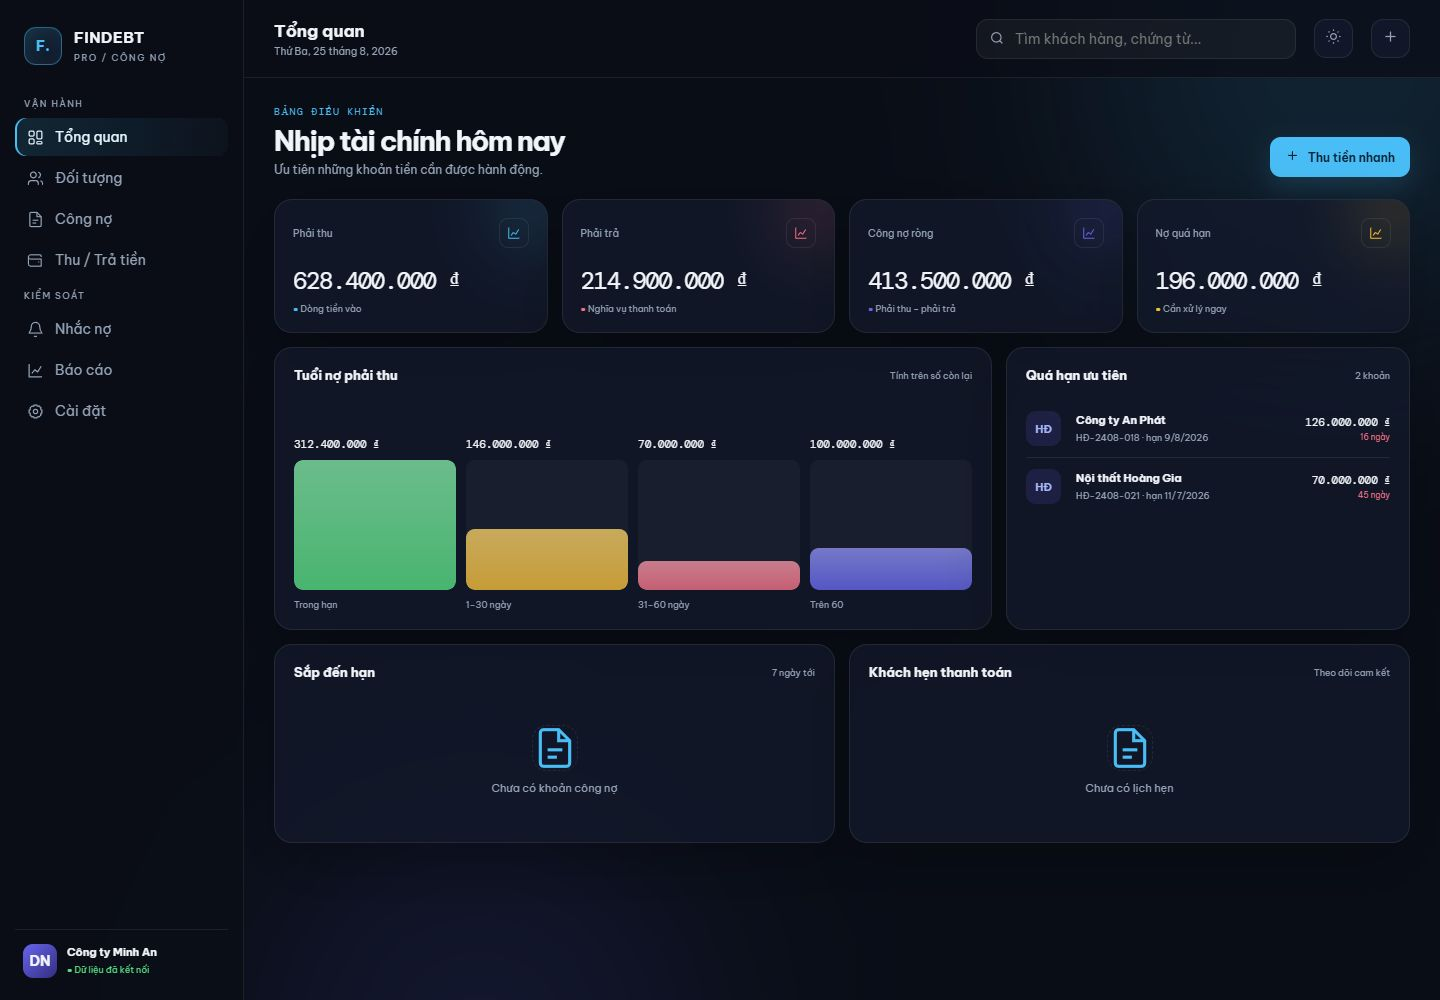
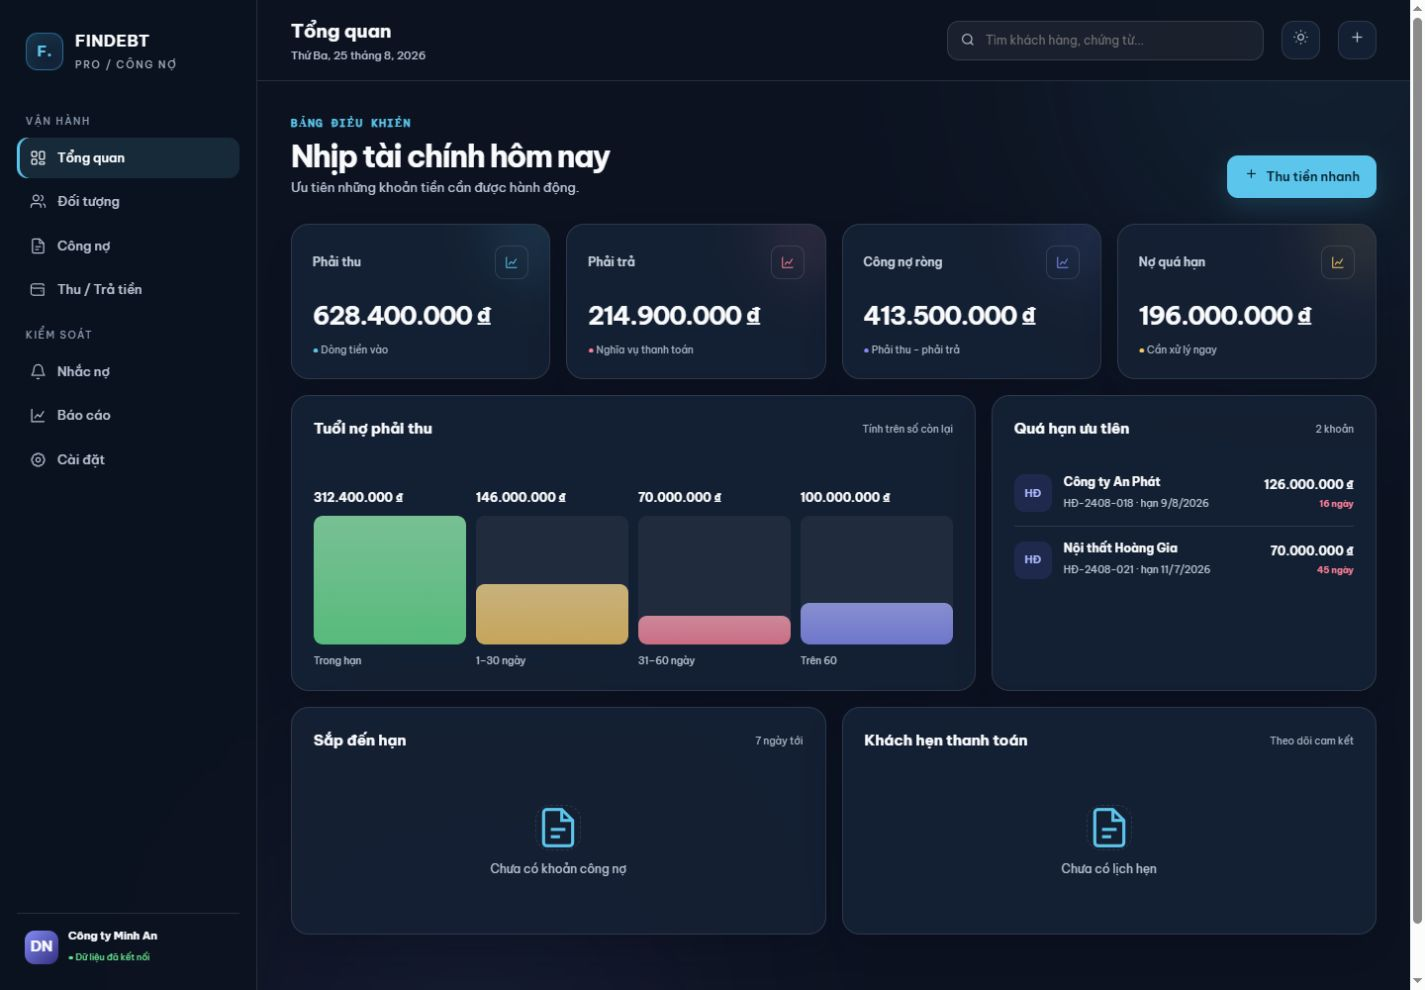
style: improve dashboard readability and contrast

diff --git a/web/Index.html b/web/Index.html
@@ -3,7 +3,9 @@
 <head>
   <base target="_top">
   <meta charset="utf-8">
+  <meta name="description" content="FINDEBT PRO — quản trị công nợ phải thu, phải trả cho doanh nghiệp Việt Nam.">
   <meta name="color-scheme" content="dark light">
+  <title>FINDEBT PRO</title>
   <link rel="preconnect" href="https://fonts.googleapis.com">
   <link rel="preconnect" href="https://fonts.gstatic.com" crossorigin>
   <link href="https://fonts.googleapis.com/css2?family=Be+Vietnam+Pro:wght@400;500;600;700;800&family=DM+Mono:wght@400;500&display=swap" rel="stylesheet">
@@ -18,10 +20,27 @@
     .filterbar{display:flex;gap:9px;margin-bottom:14px}.field-inline{border:1px solid var(--line);background:var(--panel);color:var(--text);border-radius:10px;padding:9px 12px;font-size:11px;outline:0}.filterbar input{min-width:240px}.modal-backdrop{position:fixed;inset:0;background:rgba(2,6,15,.72);backdrop-filter:blur(8px);z-index:20;display:none;place-items:center;padding:18px}.modal-backdrop.open{display:grid}.modal{width:min(620px,100%);max-height:min(780px,92vh);overflow:auto;background:var(--panel-solid);border:1px solid var(--line);border-radius:22px;box-shadow:0 30px 90px rgba(0,0,0,.45);padding:22px;animation:pop .22s ease}@keyframes pop{from{opacity:0;transform:scale(.97)}}.modal-head{display:flex;justify-content:space-between;align-items:start;margin-bottom:20px}.modal h3{margin:0;font-size:18px}.modal-head p{margin:5px 0 0;color:var(--muted);font-size:10px}.form-grid{display:grid;grid-template-columns:1fr 1fr;gap:13px}.field{display:grid;gap:6px}.field.full{grid-column:1/-1}.field label{font-size:9px;color:var(--muted);font-weight:600}.field input,.field select,.field textarea{width:100%;border:1px solid var(--line);background:rgba(255,255,255,.035);color:var(--text);border-radius:10px;padding:11px 12px;outline:none}.field input:focus,.field select:focus,.field textarea:focus{border-color:rgba(56,189,248,.5);box-shadow:0 0 0 3px rgba(56,189,248,.08)}.field textarea{min-height:76px;resize:vertical}.modal-foot{display:flex;justify-content:flex-end;gap:8px;margin-top:20px}.checkbox{display:flex;align-items:center;gap:8px;font-size:10px;color:var(--muted)}.toast-stack{position:fixed;right:20px;bottom:20px;z-index:30;display:grid;gap:8px}.toast{background:var(--panel-solid);border:1px solid var(--line);border-left:3px solid var(--green);border-radius:11px;padding:12px 15px;box-shadow:var(--shadow);min-width:260px;font-size:11px;animation:toast .3s ease}.toast.error{border-left-color:var(--red)}@keyframes toast{from{opacity:0;transform:translateX(20px)}}.loading{position:fixed;inset:0;background:var(--bg);z-index:99;display:grid;place-items:center}.loader-mark{width:56px;height:56px;border:1px solid rgba(56,189,248,.3);border-radius:18px;display:grid;place-items:center;color:var(--cyan);font-weight:800;animation:pulse 1.4s infinite}@keyframes pulse{50%{box-shadow:0 0 40px rgba(56,189,248,.22);transform:scale(1.04)}}.setup{max-width:520px;text-align:center}.setup h1{font-size:30px;letter-spacing:-.04em;margin:18px 0 8px}.setup p{color:var(--muted);line-height:1.7}.setup input{margin:16px 0;width:100%;padding:13px;border-radius:12px;border:1px solid var(--line);background:var(--panel);color:var(--text)}.bottom-nav{display:none}
     @media(max-width:1050px){.shell{grid-template-columns:78px minmax(0,1fr)}.brand-copy,.nav span,.nav-group,.company-mini>div:last-child{display:none}.brand{justify-content:center;padding-inline:0}.nav button{justify-content:center}.sidebar-foot{padding-inline:4px}.kpi-grid{grid-template-columns:1fr 1fr}.dashboard-grid{grid-template-columns:1fr}.two-cols{grid-template-columns:1fr}}
     @media(max-width:700px){body{font-size:13px}.shell{display:block}.sidebar{display:none}.topbar{height:64px;padding:0 16px}.topbar-title p,.search{display:none}.topbar-title h1{font-size:15px}.content{padding:20px 14px 96px}.hero-row{align-items:start}.hero-row h2{font-size:23px}.hero-row p{max-width:240px}.actions .btn:not(.primary){display:none}.actions .btn{padding:10px}.actions .btn span{display:none}.kpi-grid{grid-template-columns:1fr 1fr;gap:9px}.kpi{padding:14px;min-height:116px}.value{font-size:17px;margin-top:15px}.kpi-head>span:first-child{font-size:8px}.dashboard-grid,.two-cols{gap:9px;margin-top:9px}.panel{padding:15px}.aging-bars{height:180px;gap:7px}.aging-amount{font-size:9px}.aging-label{font-size:8px}.filterbar{overflow:auto}.filterbar input{min-width:190px}.form-grid{grid-template-columns:1fr}.field.full{grid-column:auto}.bottom-nav{position:fixed;bottom:0;left:0;right:0;height:72px;background:rgba(9,13,22,.92);backdrop-filter:blur(20px);border-top:1px solid var(--line);z-index:10;display:grid;grid-template-columns:repeat(5,1fr);padding:7px 6px max(7px,env(safe-area-inset-bottom))}html[data-theme=light] .bottom-nav{background:rgba(248,250,252,.94)}.bottom-nav button{border:0;background:none;color:var(--muted);display:grid;place-items:center;align-content:center;gap:3px;font-size:8px}.bottom-nav button.active{color:var(--cyan)}.bottom-nav svg{width:18px}.toast-stack{right:12px;left:12px;bottom:85px}.toast{min-width:0}.modal{padding:18px;border-radius:19px}.hero-row .eyebrow{display:none}}
+
+    /* Readability pass: stronger hierarchy and calmer financial surfaces. */
+    :root{--bg:#0b1220;--bg2:#101a2d;--panel:rgba(19,31,52,.96);--panel-solid:#15223a;--text:#f8fafc;--muted:#b6c2d3;--line:rgba(203,213,225,.14);--cyan:#51c5ed;--indigo:#818cf8;--green:#5ee28b;--red:#ff8196;--amber:#f8c85c;--shadow:0 16px 42px rgba(2,8,23,.28)}
+    html[data-theme=light]{--bg:#edf2f7;--bg2:#f8fafc;--panel:rgba(255,255,255,.98);--panel-solid:#fff;--text:#162033;--muted:#526178;--line:rgba(30,41,59,.14);--shadow:0 12px 34px rgba(51,65,85,.12)}
+    html{scroll-behavior:smooth}body{font-size:15px;line-height:1.5}.skip-link{position:fixed;left:16px;top:-60px;z-index:100;background:var(--cyan);color:#082f49;padding:10px 14px;border-radius:9px;font-weight:700}.skip-link:focus{top:14px}.ambient:before,.ambient:after{opacity:.075}.shell{grid-template-columns:260px minmax(0,1fr)}
+    .sidebar{padding:24px 17px;background:rgba(11,18,32,.96);border-color:var(--line)}html[data-theme=light] .sidebar{background:rgba(248,250,252,.97)}
+    .brand strong{font-size:16px}.brand small{font-size:10px;color:#aab8ca}.nav-group{margin-top:14px;font-size:10px;color:#8fa0b6}.nav button{padding:11px 13px;font-size:13px;font-weight:500}.nav button.active{color:#fff;background:rgba(81,197,237,.13);box-shadow:inset 3px 0 var(--cyan)}
+    .topbar{height:82px;padding:0 34px;background:rgba(11,18,32,.94)}html[data-theme=light] .topbar{background:rgba(237,242,247,.96)}.topbar-title h1{font-size:19px}.topbar-title p{font-size:11px}.search input{font-size:12px;background:rgba(255,255,255,.06);border-color:var(--line)}
+    .content{padding:34px 34px 110px;max-width:1480px}.hero-row{margin-bottom:26px}.eyebrow{font-size:11px;font-weight:600}.hero-row h2{font-size:31px;line-height:1.15;margin-top:7px;text-wrap:balance}.hero-row p{font-size:13px;line-height:1.6;max-width:65ch}
+    .btn{font-size:13px;min-height:42px;padding:10px 16px;transition:transform .2s ease,border-color .2s ease,background .2s ease}.btn:active,.icon-btn:active,.mini-btn:active{transform:scale(.97)}button:focus-visible,input:focus-visible,select:focus-visible,textarea:focus-visible{outline:3px solid rgba(81,197,237,.38);outline-offset:2px}
+    .card{background:var(--panel);backdrop-filter:blur(12px);border-color:var(--line);box-shadow:var(--shadow)}.kpi-grid{gap:16px}.kpi{padding:21px;min-height:145px}.kpi-head{font-size:12px;font-weight:600;color:#c4cfdd}.kpi-icon{width:34px;height:34px}.value,.money,.amount,.aging-amount{font-family:'Be Vietnam Pro',sans-serif;font-variant-numeric:tabular-nums;font-style:normal}.value{font-size:25px;font-weight:700;letter-spacing:-.045em;margin:19px 0 8px}.delta{font-size:10px;color:#aab8ca}
+    .dashboard-grid,.two-cols{gap:16px;margin-top:16px}.panel{padding:22px}.panel-head{margin-bottom:20px}.panel-head h3{font-size:15px}.panel-head span{font-size:10px;color:#aab8ca}.aging-amount{font-size:12px;font-weight:700}.aging-label{font-size:10px;color:#b7c3d3}.bar-track{background:rgba(203,213,225,.065)}
+    .list-row{padding:13px 0}.list-main strong{font-size:12px}.list-main small{font-size:10px;line-height:1.5}.amount{font-size:12px;font-weight:700}.amount small{font-size:9px}.initial{width:38px;height:38px;font-size:11px}
+    .filterbar{margin-bottom:16px}.field-inline{font-size:12px;padding:11px 13px}.data-table th{font-size:10px;padding:13px 14px;color:#aebbd0}.data-table td{font-size:12px;line-height:1.55;padding:15px 14px}.badge{font-size:9px;padding:6px 9px}.mini-btn{width:32px;height:32px}.empty{font-size:12px;padding:34px}
+    .field label{font-size:10px;color:#b8c4d4}.field input,.field select,.field textarea{font-size:13px;padding:12px 13px}.modal{padding:25px}.modal h3{font-size:20px}.modal-head p{font-size:11px;line-height:1.55}.toast{font-size:12px}
+    @media(max-width:1050px){.shell{grid-template-columns:82px minmax(0,1fr)}}
+    @media(max-width:700px){body{font-size:14px}.topbar{height:68px;padding:0 17px}.topbar-title h1{font-size:17px}.content{padding:23px 15px 100px}.hero-row{margin-bottom:20px}.hero-row h2{font-size:25px}.hero-row p{font-size:12px;line-height:1.5}.kpi-grid{gap:10px}.kpi{padding:16px;min-height:128px}.kpi-head>span:first-child{font-size:9px}.value{font-size:18px;line-height:1.25;margin-top:17px}.delta{font-size:9px}.dashboard-grid,.two-cols{gap:11px;margin-top:11px}.panel{padding:17px}.panel-head h3{font-size:14px}.aging-amount{font-size:10px}.aging-label{font-size:9px}.list-main strong{font-size:11px}.list-main small{font-size:9px}.bottom-nav{height:76px}.bottom-nav button{font-size:9px;font-weight:500}.bottom-nav svg{width:19px}.modal{padding:20px}}
   </style>
 </head>
 <body>
-<div class="ambient"></div><div id="loading" class="loading"><div class="loader-mark">F.</div></div>
+<a href="#app" class="skip-link">Bỏ qua đến nội dung chính</a><div class="ambient"></div><div id="loading" class="loading"><div class="loader-mark">F.</div></div>
 <div id="app" class="shell" hidden>
   <aside class="sidebar"><div class="brand"><div class="brand-mark">F.</div><div class="brand-copy"><strong>FINDEBT</strong><small>PRO / CÔNG NỢ</small></div></div><div id="desktop-nav" class="nav"></div><div class="sidebar-foot"><div class="company-mini"><div class="company-avatar">DN</div><div><strong id="company-name-side">Doanh nghiệp</strong><small>● Dữ liệu đã kết nối</small></div></div></div></aside>
   <main><header class="topbar"><div class="topbar-title"><h1 id="page-title">Tổng quan</h1><p id="today-label"></p></div><div class="search"><i data-icon="search"></i><input id="global-search" placeholder="Tìm khách hàng, chứng từ..."></div><button class="icon-btn" id="theme-btn" aria-label="Đổi giao diện"><i data-icon="sun"></i></button><button class="icon-btn" onclick="openModal('partner')" aria-label="Thêm mới"><i data-icon="plus"></i></button></header>
